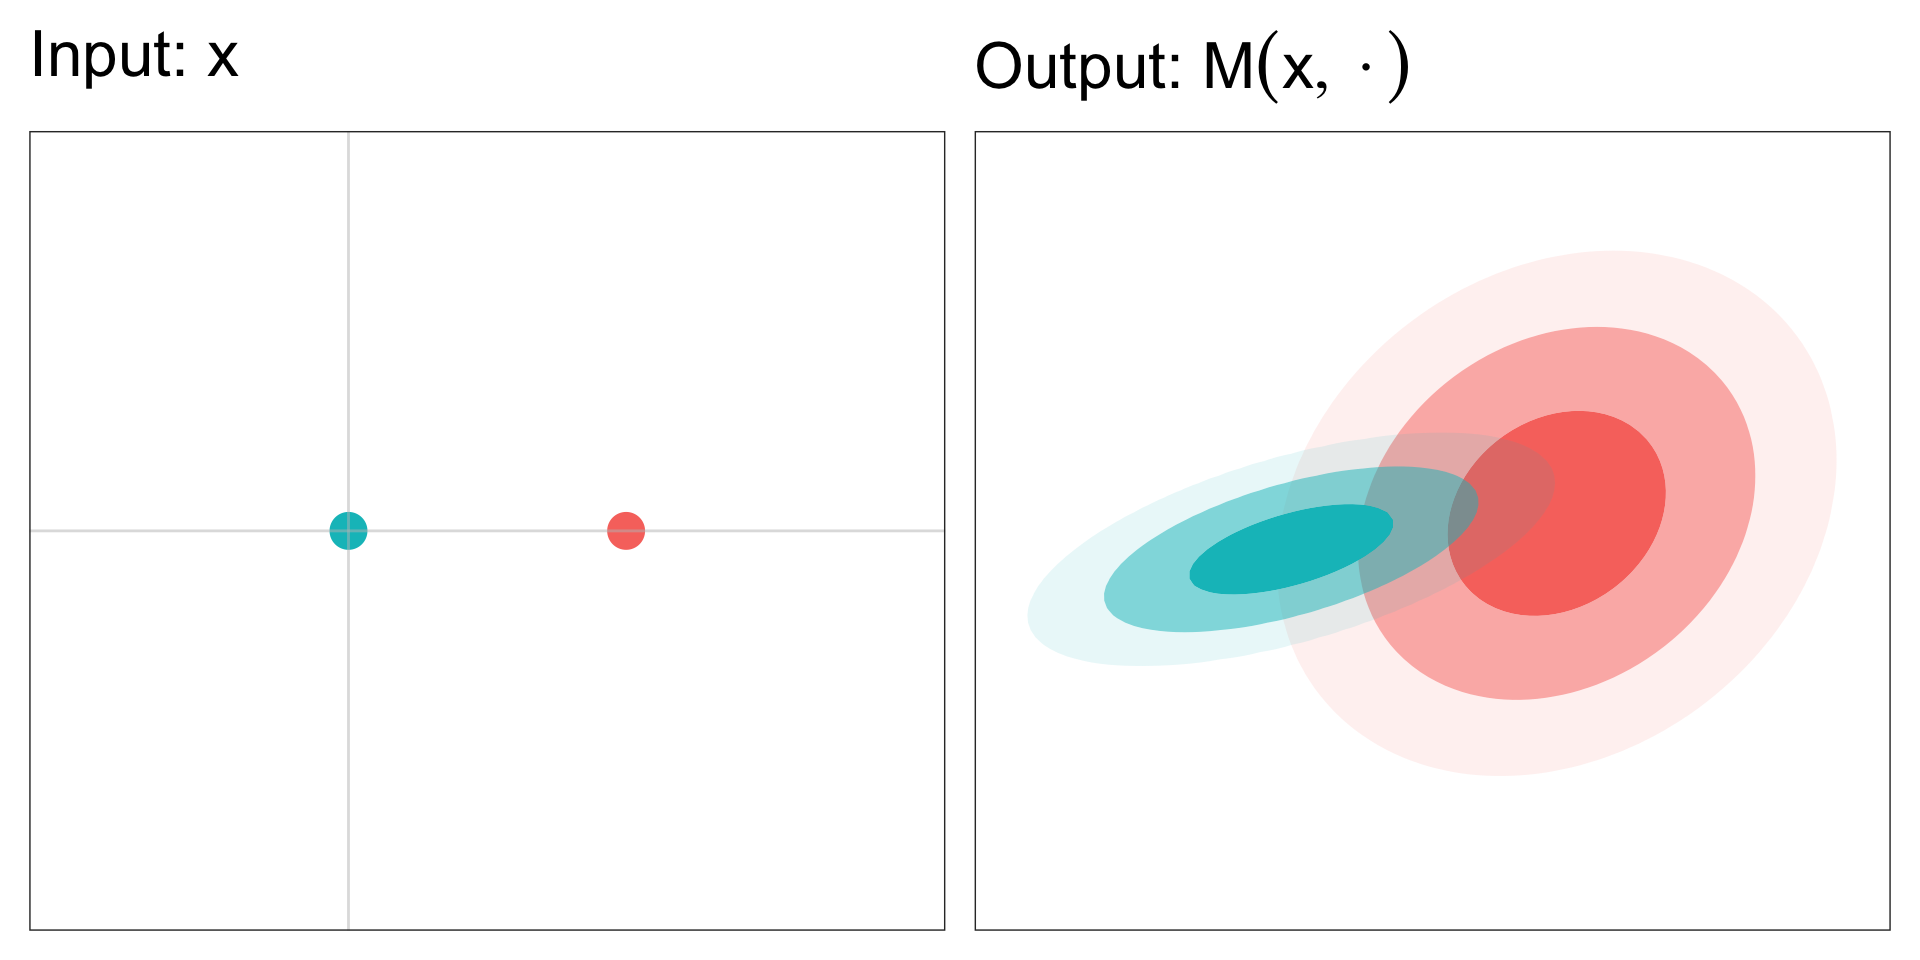
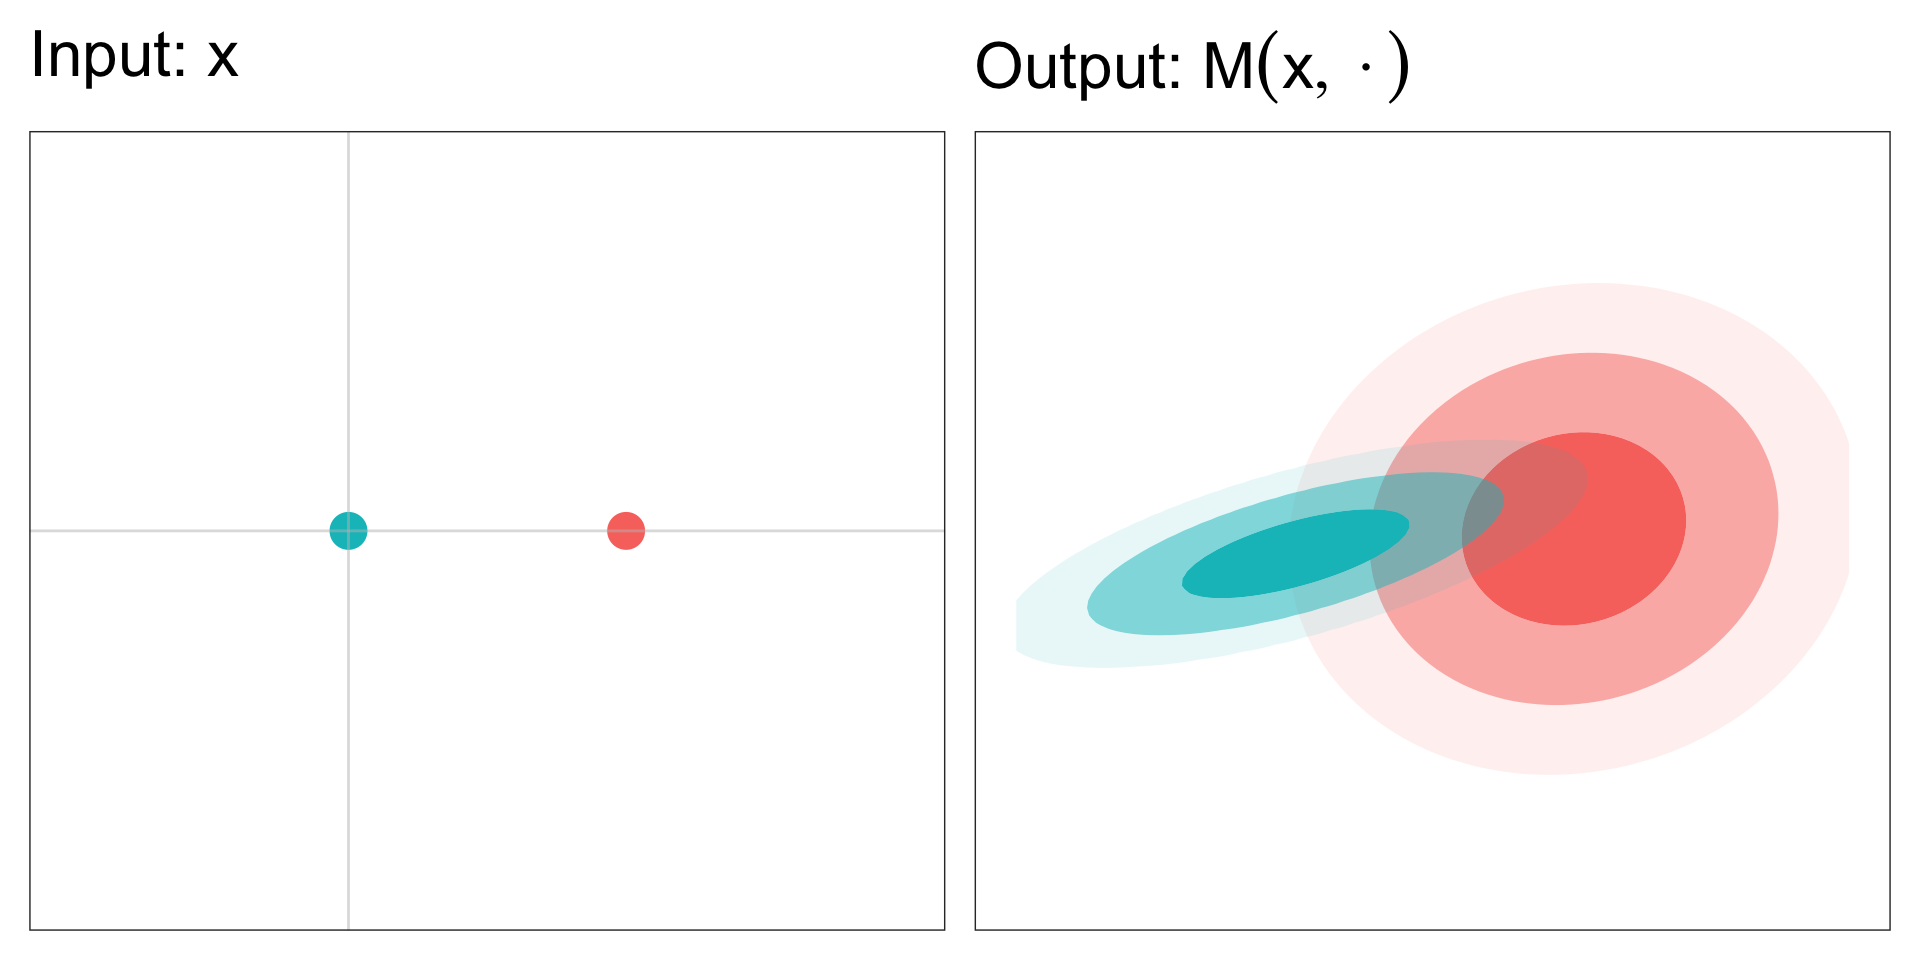
Removed big image

diff --git a/index.html b/index.html
@@ -226,7 +226,7 @@ Joshua J Bon
 </ol>
 </div><div class="column" style="width:40%;">
 <div class="r-stack">
-<p><img data-src="imgs/pain-tour.png" width="380"></p>
+<p><img data-src="imgs/pain-tour.jpg" width="380"></p>
 <p><img data-src="imgs/crossiant.jpg" class="fragment fade-in" width="500"></p>
 </div>
 </div></div>
